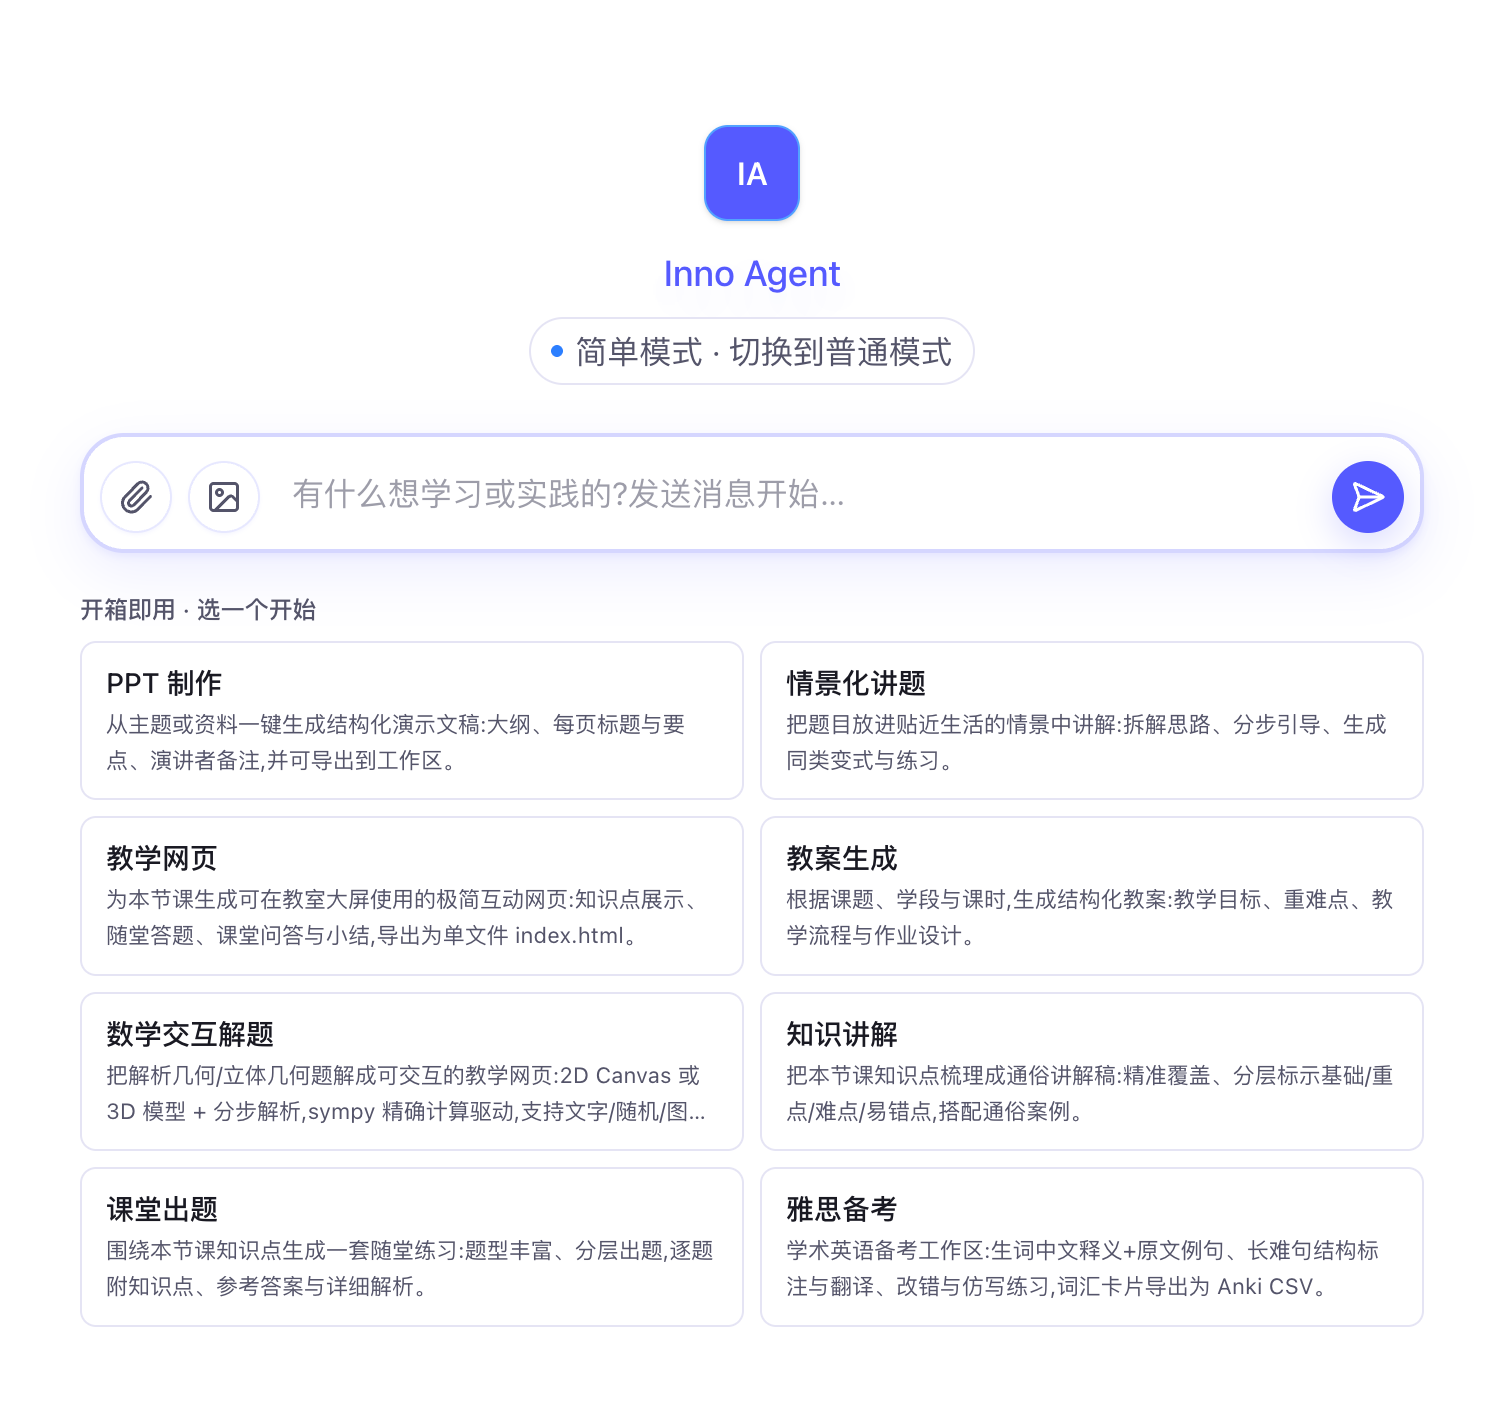
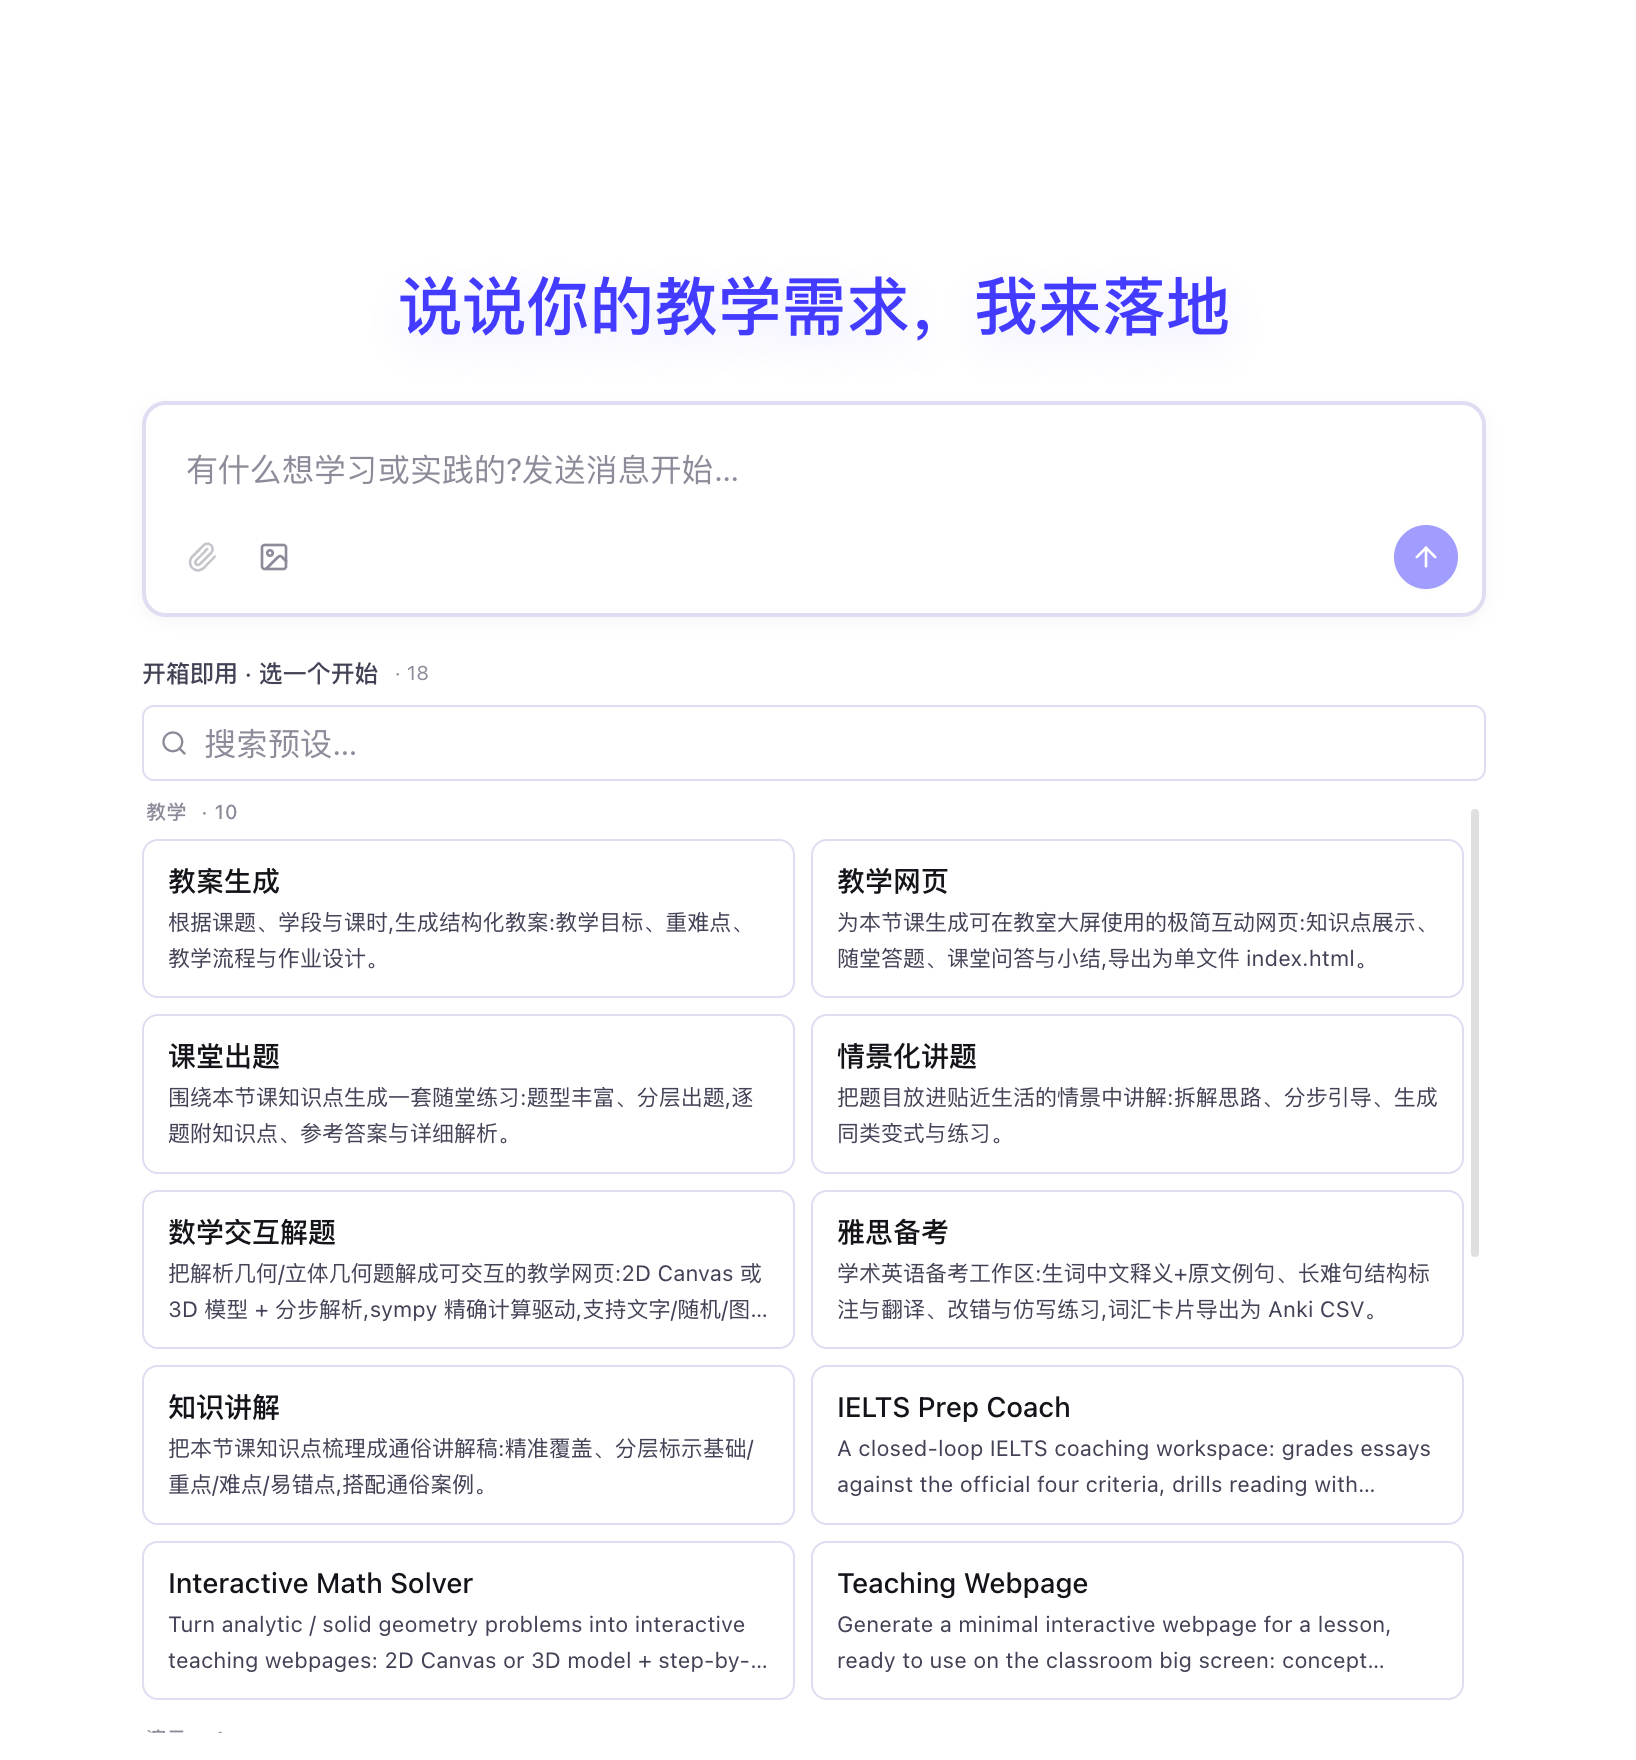
完善样式

Changed region(s): [[0.0623, 0.0623, 0.9338, 0.966], [0.8404, 0.2805, 0.9338, 0.4051], [0.5914, 0.1558, 0.747, 0.187]]

diff --git a/src/styles/custom.css b/src/styles/custom.css
@@ -86,7 +86,13 @@ button:focus-visible,
   text-decoration: none !important;
 }
 
-.brand-logo,
+.brand-logo {
+  width: var(--aiecnu-brand-logo-size) !important;
+  height: var(--aiecnu-brand-logo-size) !important;
+  flex: 0 0 var(--aiecnu-brand-logo-size) !important;
+  display: block !important;
+}
+
 .site-title img {
   width: var(--aiecnu-brand-logo-size) !important;
   height: var(--aiecnu-brand-logo-size) !important;
@@ -96,10 +102,6 @@ button:focus-visible,
   background: var(--aiecnu-brand-logo-bg) !important;
   box-shadow: var(--aiecnu-brand-logo-shadow) !important;
   object-fit: cover !important;
-}
-
-.brand-logo {
-  display: block !important;
 }
 
 /* ===== Unified theme control ===== */
@@ -1263,13 +1265,6 @@ html[data-theme='dark'] .landing-page #mobile-menu {
 
 html[data-theme='dark'] .landing-page #mobile-menu > div {
   background: #080c18;
-}
-
-html[data-theme='dark'] .landing-page nav img {
-  background: var(--aiecnu-brand-logo-bg) !important;
-  border-color: var(--aiecnu-brand-logo-border) !important;
-  border-radius: var(--aiecnu-brand-logo-radius) !important;
-  box-shadow: var(--aiecnu-brand-logo-shadow) !important;
 }
 
 html[data-theme='dark'] .landing-page nav a[aria-label] {
